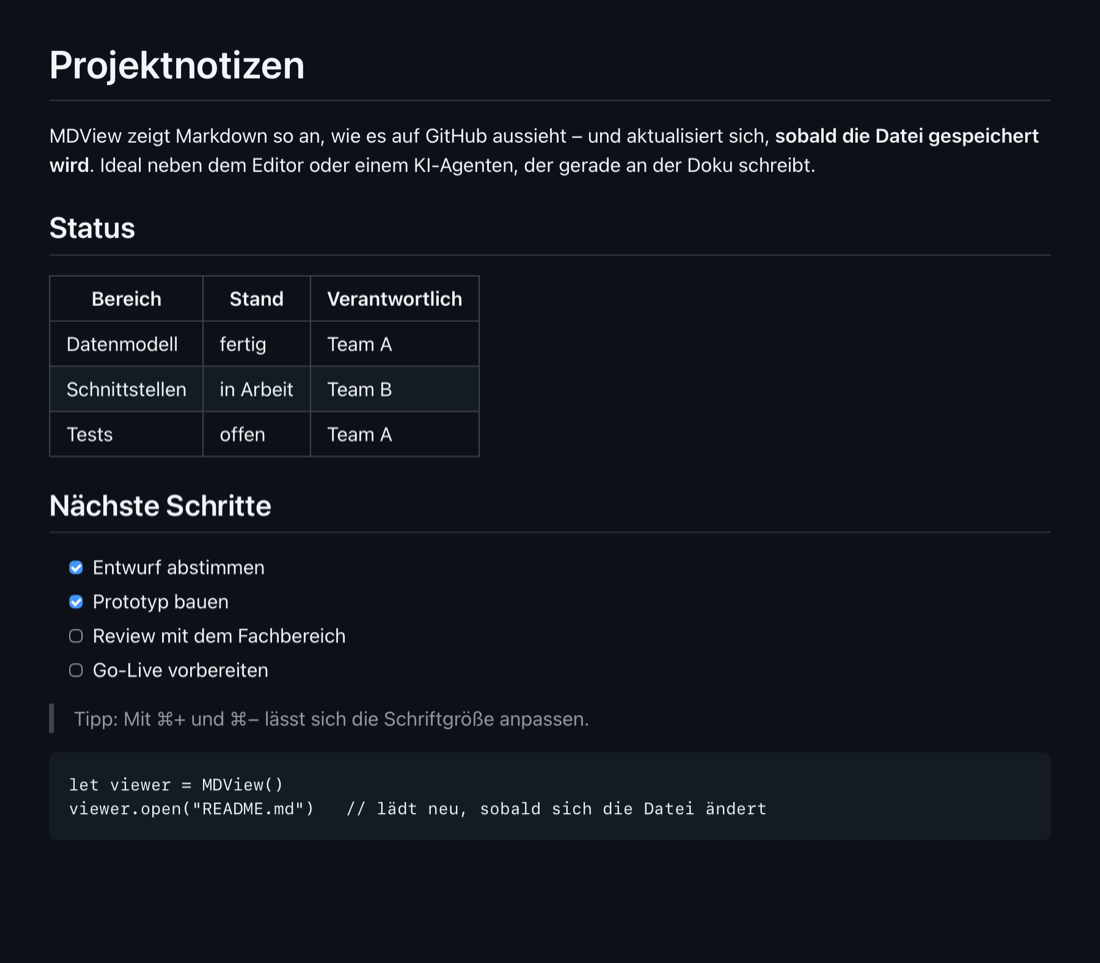
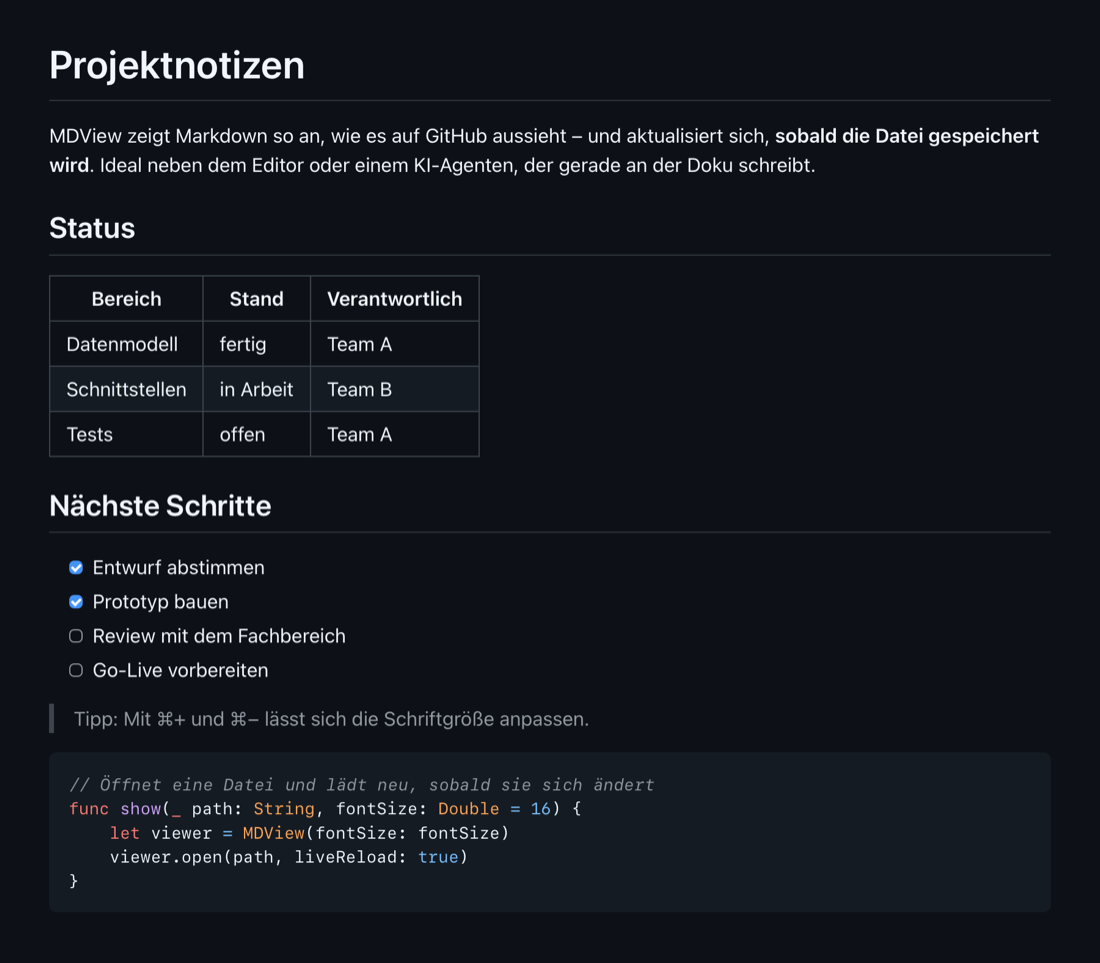
README: neue Screenshots mit Syntax-Highlighting, automatische App-Verlinkung
- Screenshots aus docs/demo.md neu erzeugt; der Codeblock ist jetzt ein
  etwas längeres Swift-Beispiel, damit das Highlighting sichtbar wird.
- Homebrew-Abschnitt: `mdview` verlinkt die App beim ersten Aufruf selbst
  nach ~/Applications (während `brew install` verhindert die Sandbox das).

Changed region(s): [[0.0618, 0.81, 0.6182, 0.9034]]

diff --git a/README.md b/README.md
@@ -64,12 +64,13 @@ xcode-select --install
 brew install tissanr/tap/mdview
 ```
 
-Homebrew baut MDView dabei aus dem Quellcode. Danach im Terminal `mdview datei.md`;
-damit die App auch im Finder, in Spotlight und bei „Öffnen mit“ erscheint, einmalig verlinken:
+Homebrew baut MDView dabei aus dem Quellcode. Danach im Terminal `mdview datei.md`.
+Beim ersten Aufruf verlinkt `mdview` die App automatisch nach `~/Applications`, damit sie
+auch im Finder, in Spotlight und bei „Öffnen mit“ erscheint. Wer das sofort möchte, ruft
+einmal `mdview` ohne Datei auf.
 
-```bash
-ln -sf "$(brew --prefix)/opt/mdview/MDView.app" ~/Applications/MDView.app
-```
+(Während `brew install` selbst geht das nicht: Homebrew installiert in einer Sandbox,
+die keine Schreibzugriffe ins Home-Verzeichnis erlaubt.)
 
 Falls Homebrew nach Vertrauen für das Tap fragt: `brew trust --tap tissanr/tap`.
 

diff --git a/docs/demo.md b/docs/demo.md
@@ -22,6 +22,9 @@ der gerade an der Doku schreibt.
 > Tipp: Mit ⌘+ und ⌘− lässt sich die Schriftgröße anpassen.
 
 ```swift
-let viewer = MDView()
-viewer.open("README.md")   // lädt neu, sobald sich die Datei ändert
+// Öffnet eine Datei und lädt neu, sobald sie sich ändert
+func show(_ path: String, fontSize: Double = 16) {
+    let viewer = MDView(fontSize: fontSize)
+    viewer.open(path, liveReload: true)
+}
 ```
